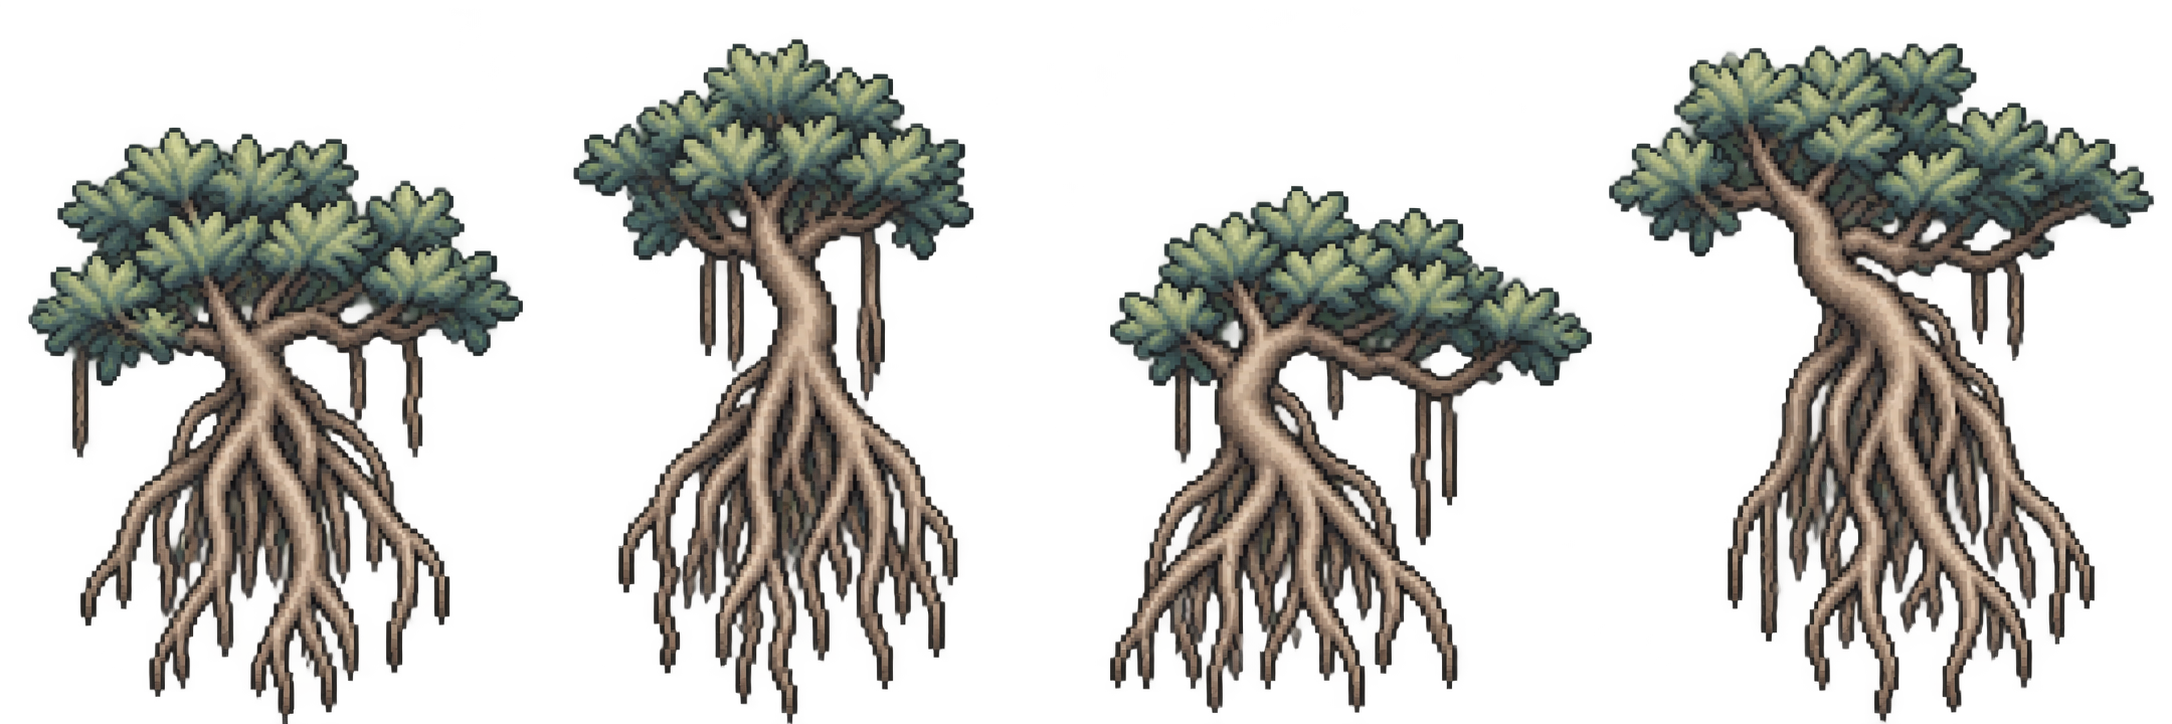
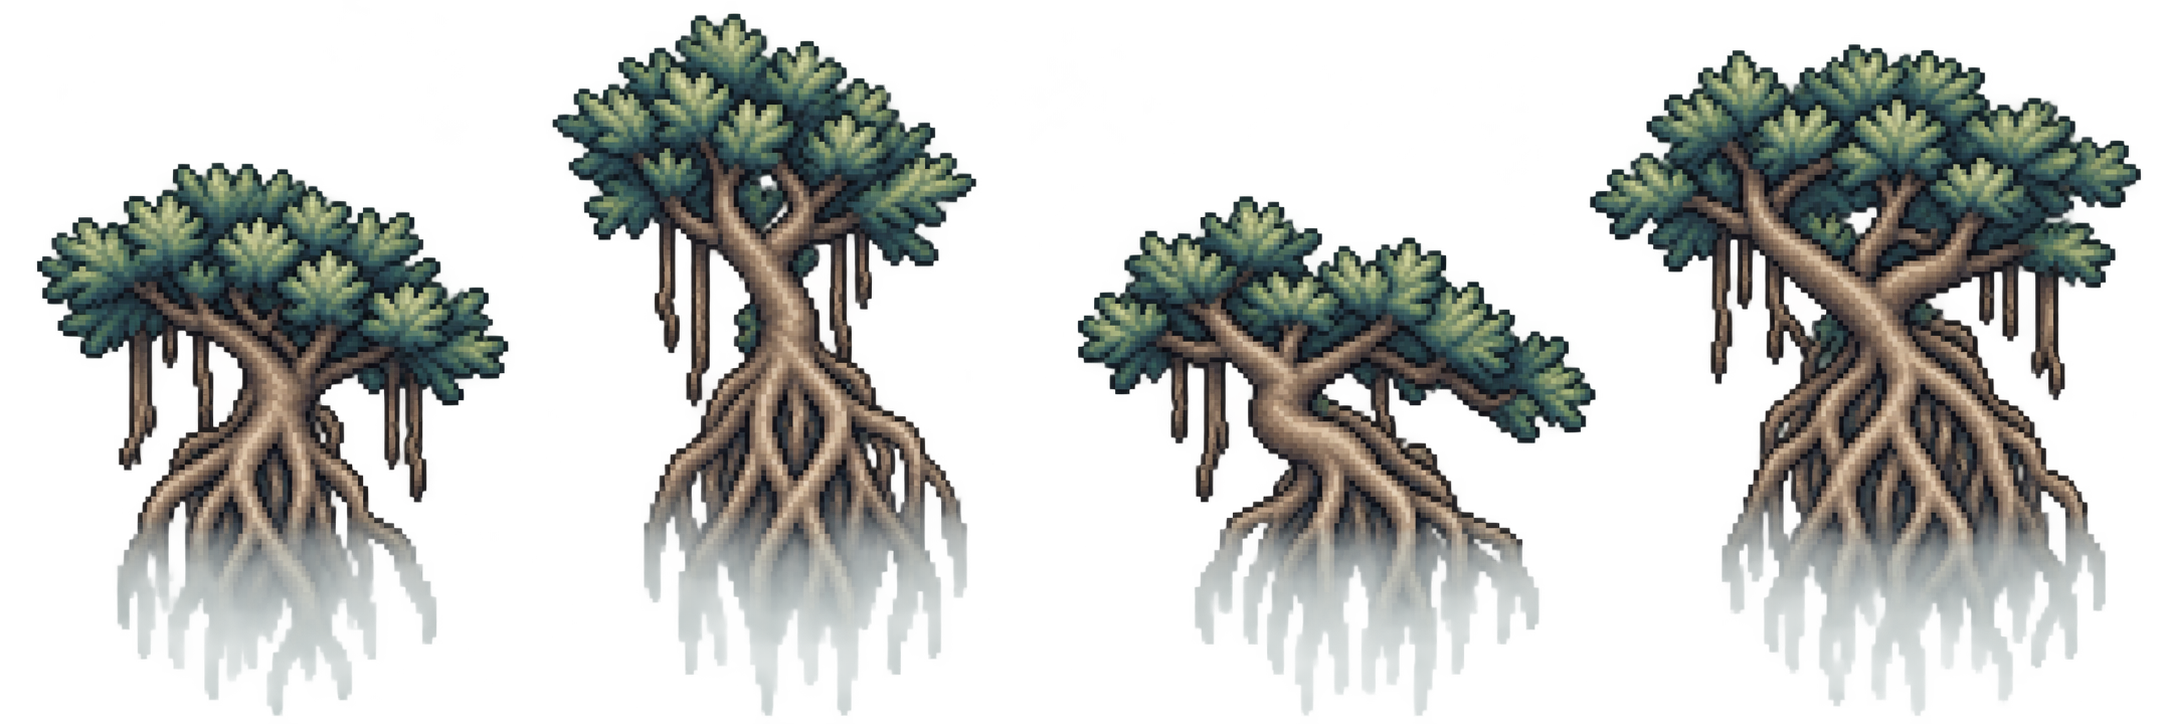
Let the mangrove roots fade into the water they stand in
New art, and two things in the intake had to give for it.

**The fade was being deleted.** `harden` drops every pixel under alpha 200 and
forces the rest to 255, which is right for a keyed sheet -- a magenta key leaves
a halo of semi-transparent matte round every shape, and soft alpha on pixel art
is a defect. It is exactly wrong for alpha somebody drew on purpose. These
mangroves fade out where their roots enter the water, a ramp from 32 to 224, and
hardening cut the box down to the solid part: the trees came out 105 and 88 tall
against the 150 and 129 they should be.

So `soft` is declared per sheet in `OUTPUTS` rather than sniffed. A heuristic
could tell a broad gradient from a thin halo, and `art-direction.md` records
what happened the last two times a pixel heuristic was trusted over a
declaration here -- both got it wrong on two of five characters, and looking
took a minute. The author knows whether they drew a fade.

**And two of the four trees were touching.** `findItems` separates by clear
columns, which is the right rule and is beaten the moment two canopies overlap
by a pixel: items three and four came back as one box 1,063 wide, squashed into
a single cell. `splitWidest` cuts the widest item at its emptiest interior
column, **only until the count matches the manifest** -- which is
`build-rims.js`'s lesson run backwards. That one merges smallest-gap-first and
only until the count matches, because a fixed threshold welded two rows whose
[…]

diff --git a/tools/build-flora.js b/tools/build-flora.js
@@ -81,7 +81,19 @@ const TREES = [
  */
 const OUTPUTS = [
   { file: 'flora.png', cell: { width: CELL, height: CELL }, pieces: PIECES, from: SHEETS },
-  { file: 'trees.png', cell: TALL, pieces: TREES, from: ['sky-trees.png'] }
+  // **`soft` keeps the drawn alpha instead of hardening it, and it is declared rather than
+  // sniffed.** `ALPHA_FLOOR` at 200 exists because a keyed sheet arrives with a halo of
+  // semi-transparent matte around every shape, and soft alpha on pixel art is a defect. It is
+  // exactly wrong here: the mangroves are drawn with their roots fading out where they enter the
+  // water, an alpha ramp running from 32 to 224, and hardening deleted most of it and flattened
+  // the rest -- the trees came out 105 and 88 tall against the 155 and 140 they should be, because
+  // the box shrank to the solid part.
+  //
+  // A heuristic could tell a broad gradient from a thin halo. `art-direction.md` records what
+  // happened the last two times a pixel heuristic was trusted over a declaration here: both got it
+  // wrong on two of five characters, and looking took a minute. The author knows whether they drew
+  // a fade, so they say so.
+  { file: 'trees.png', cell: TALL, pieces: TREES, from: ['sky-trees.png'], soft: true }
 ];
 
 function decodePng(file) {
@@ -238,20 +250,32 @@ function hasAlpha(data, width, height) {
  * exactly which colour contaminated them. Here it does not, so the honest move is to drop the band:
  * an edge one pixel tighter, and no halo at any alpha.
  */
-function harden(data, width, height) {
+function harden(data, width, height, soft = false) {
+  const floor = soft ? FADE_FLOOR : ALPHA_FLOOR;
   const out = Buffer.alloc(width * height * 4);
   for (let i = 0; i < width * height; i += 1) {
-    if (data[i * 4 + 3] < ALPHA_FLOOR) continue;
+    const alpha = data[i * 4 + 3];
+    if (alpha < floor) continue;
     out[i * 4] = data[i * 4];
     out[i * 4 + 1] = data[i * 4 + 1];
     out[i * 4 + 2] = data[i * 4 + 2];
-    out[i * 4 + 3] = 255;
+    // **Soft sheets keep their alpha; everything else is forced opaque.** Flattening a drawn
+    // gradient to 255 is not a tidy-up, it is deleting the drawing.
+    out[i * 4 + 3] = soft ? alpha : 255;
   }
   return out;
 }
 
 /** How opaque a pixel must be to survive `harden`. Below this it is matte, not art. */
 const ALPHA_FLOOR = 200;
+
+/**
+ * The floor for a sheet that was *drawn* with soft alpha, rather than left with a matte halo.
+ *
+ * Low enough to keep a deliberate gradient and high enough to drop encoder noise. See `SOFT` in
+ * `OUTPUTS` for why this is declared per sheet rather than sniffed.
+ */
+const FADE_FLOOR = 8;
 
 /**
  * Replace the key colour with real transparency, and de-fringe what is left.
@@ -311,8 +335,8 @@ function key(cell, width, height) {
  * `build-rims.js` needs one: the question here is "is this line empty", not "is this line part of
  * the mass". A couple of stray specks still must not bridge two items, hence not zero.
  */
-function runs(cell, width, height, axis) {
-  const opaque = (x, y) => cell[(y * width + x) * 4 + 3] > 24;
+function runs(cell, width, height, axis, floor = 24) {
+  const opaque = (x, y) => cell[(y * width + x) * 4 + 3] > floor;
   const outer = axis === 'y' ? height : width;
   const inner = axis === 'y' ? width : height;
   const need = Math.max(3, Math.round(inner * 0.004));
@@ -341,19 +365,84 @@ function runs(cell, width, height, axis) {
 }
 
 /** Every item on a sheet, in reading order: bands top to bottom, items left to right. */
-function findItems(cell, width, height) {
+/**
+ * Cut the widest item at its thinnest column, until there are as many items as the manifest wants.
+ *
+ * **Because two trees touching is a drawing, not a defect.** `findItems` separates by clear
+ * columns, which is the right rule and is defeated the moment two canopies overlap by a pixel: the
+ * fourth aero-mangrove sheet came back with items three and four joined into one box 1,063 wide,
+ * and the builder faithfully squashed that pair into a single 128-wide cell.
+ *
+ * `build-rims.js` solved the mirror image of this and its lesson transfers whole: it merges bands
+ * smallest-gap-first **only until the count matches**, because a fixed threshold welded two rows
+ * whose gutter happened to be narrower than another row's internal break. So this splits
+ * widest-first and only until the count matches, rather than cutting anywhere a column looks thin.
+ *
+ * The cut goes at the emptiest interior column, which for two overlapping trees is the seam
+ * between them. Kept away from the outer fifth of the box on each side: the thinnest column of a
+ * *single* item is usually just inside its own edge, and cutting there would shave a sliver off
+ * one tree rather than separate two.
+ */
+function splitWidest(items, cell, width, wanted) {
+  const coverage = (box, x) => {
+    let n = 0;
+    for (let y = box.y0; y <= box.y1; y += 1) if (cell[(y * width + x) * 4 + 3] > FADE_FLOOR) n += 1;
+    return n;
+  };
+
+  while (items.length < wanted) {
+    let widest = 0;
+    for (let i = 1; i < items.length; i += 1) {
+      if (items[i].x1 - items[i].x0 > items[widest].x1 - items[widest].x0) widest = i;
+    }
+    const box = items[widest];
+    const span = box.x1 - box.x0;
+    const margin = Math.floor(span / 5);
+    if (span < 8) break;
+
+    let cut = box.x0 + margin;
+    let thinnest = Infinity;
+    for (let x = box.x0 + margin; x <= box.x1 - margin; x += 1) {
+      const n = coverage(box, x);
+      if (n < thinnest) {
+        thinnest = n;
+        cut = x;
+      }
+    }
+
+    // Tighten each half vertically: the two things either side of a seam rarely share an extent.
+    const half = (x0, x1) => {
+      let y0 = box.y1;
+      let y1 = box.y0;
+      for (let x = x0; x <= x1; x += 1) {
+        for (let y = box.y0; y <= box.y1; y += 1) {
+          if (cell[(y * width + x) * 4 + 3] <= FADE_FLOOR) continue;
+          if (y < y0) y0 = y;
+          if (y > y1) y1 = y;
+        }
+      }
+      return { x0, x1, y0, y1 };
+    };
+
+    items.splice(widest, 1, half(box.x0, cut), half(cut + 1, box.x1));
+    console.log(`    split the widest item at column ${cut} (${thinnest} opaque pixels there)`);
+  }
+  return items;
+}
+
+function findItems(cell, width, height, floor = 24) {
   const items = [];
-  for (const [y0, y1] of runs(cell, width, height, 'y')) {
+  for (const [y0, y1] of runs(cell, width, height, 'y', floor)) {
     const strip = Buffer.alloc(width * (y1 - y0) * 4);
     cell.copy(strip, 0, y0 * width * 4, y1 * width * 4);
-    for (const [x0, x1] of runs(strip, width, y1 - y0, 'x')) {
+    for (const [x0, x1] of runs(strip, width, y1 - y0, 'x', floor)) {
       // Tighten vertically inside this item: two items sharing a band need not share its extent.
       const box = Buffer.alloc((x1 - x0) * (y1 - y0) * 4);
       for (let y = 0; y < y1 - y0; y += 1) {
         const from = ((y0 + y) * width + x0) * 4;
         cell.copy(box, y * (x1 - x0) * 4, from, from + (x1 - x0) * 4);
       }
-      const tight = runs(box, x1 - x0, y1 - y0, 'y');
+      const tight = runs(box, x1 - x0, y1 - y0, 'y', floor);
       if (tight.length === 0) continue;
       items.push({
         x0,
@@ -375,9 +464,9 @@ function findItems(cell, width, height) {
  * rather than a feature, so `harden` dropping that band costs nothing. A sheet with no alpha at all
  * is a magenta grid instead, and `key` handles it.
  */
-function cutOut(img) {
+function cutOut(img, soft = false) {
   return hasAlpha(img.data, img.width, img.height)
-    ? harden(img.data, img.width, img.height)
+    ? harden(img.data, img.width, img.height, soft)
     : key(img.data, img.width, img.height);
 }
 
@@ -436,7 +525,7 @@ function main() {
   if (!apply) console.log('\n  Nothing written.');
 }
 
-function buildSheet({ file, cell, pieces, from }, apply) {
+function buildSheet({ file, cell, pieces, from, soft = false }, apply) {
   const frames = [];
   for (const name of from) {
     const path_ = path.join(SRC, name);
@@ -445,9 +534,13 @@ function buildSheet({ file, cell, pieces, from }, apply) {
       continue;
     }
     const img = decodePng(path_);
-    const cut = cutOut(img);
-    const items = findItems(cut, img.width, img.height);
-    console.log(`  ${name} (${img.width}x${img.height}) -> ${items.length} items`);
+    const cut = cutOut(img, soft);
+    const found = findItems(cut, img.width, img.height, soft ? FADE_FLOOR : 24);
+    // Only ever splits *up to* the count the manifest wants, and only when the finder came up
+    // short -- see `splitWidest`. A sheet whose items separate cleanly never reaches it.
+    const items = splitWidest(found, cut, img.width, pieces.length);
+    const how = items.length === found.length ? '' : ` (${found.length} found, split to ${items.length})`;
+    console.log(`  ${name} (${img.width}x${img.height}) -> ${items.length} items${how}`);
     for (const box of items) {
       const bw = box.x1 - box.x0;
       const bh = box.y1 - box.y0;
